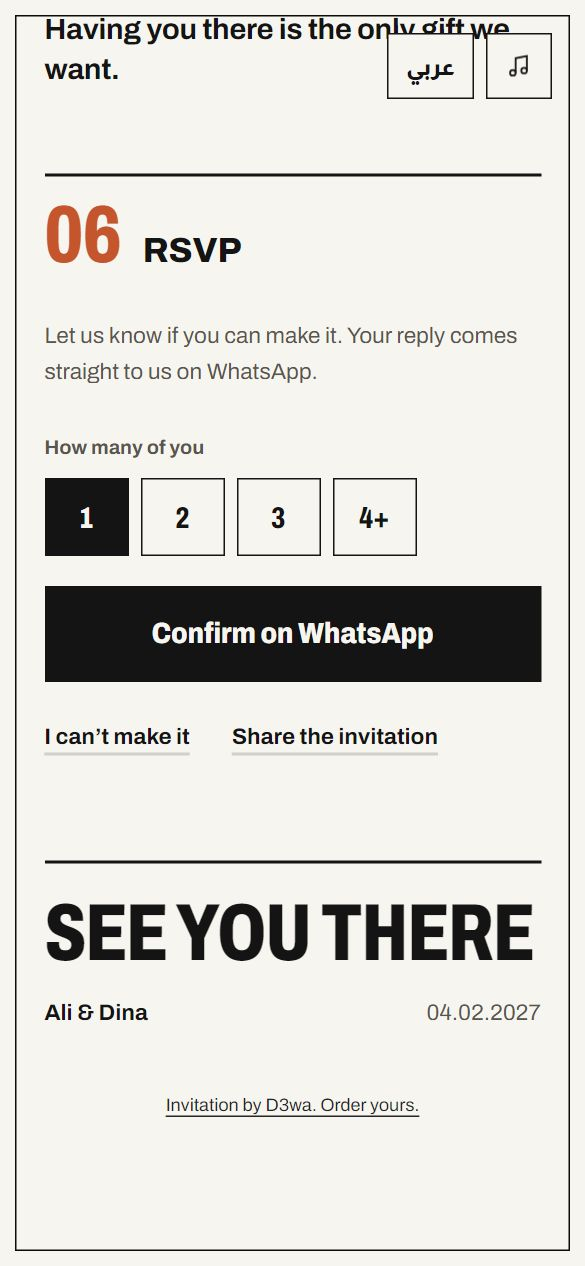
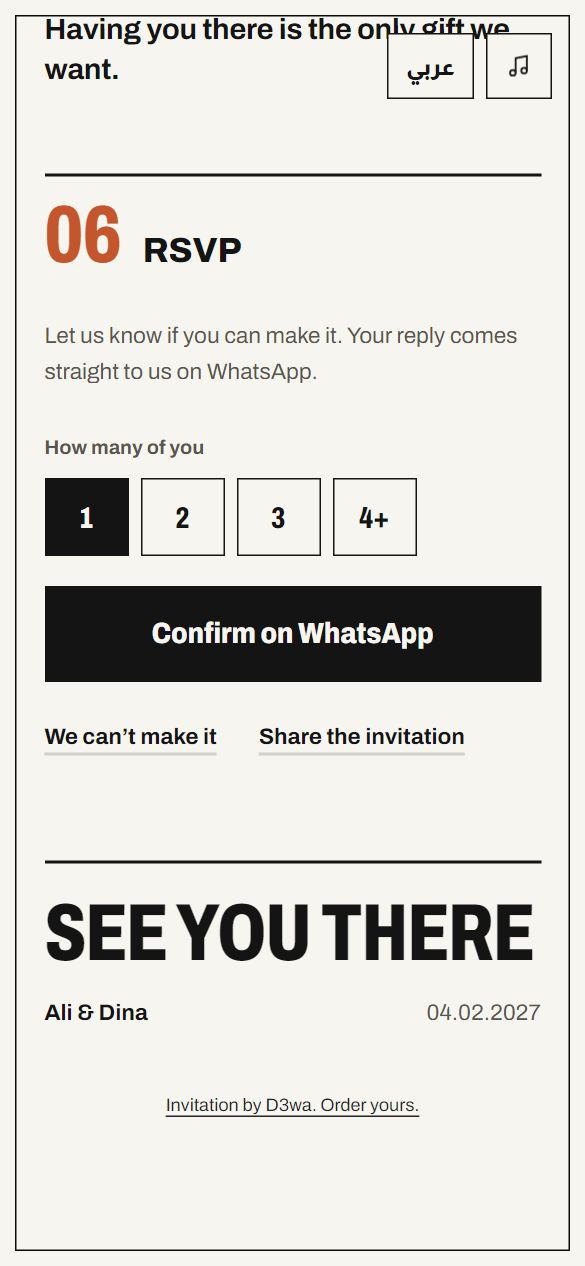
Council round 8 fixes: last singular RSVP labels, names in either script
From the eighth council review (Claude Opus, 9.4/10):
- Emerald's accept button ("أؤكد الحضور") and Modern's English decline
  ("I can't make it", written as an entity the earlier sweep missed)
  still spoke as one person next to "we" messages.
- Gold, Navy, Rose and Rustic accept messages said "I" before "Number
  of guests"; they now say "we" in both languages, which also removes
  Gold's and Navy's "يسعدني أأكد" typo. A sweep of all eleven non-Henna
  designs (plain, curly and entity apostrophes) finds no singular RSVP
  wording left.
- Checkout accepts names in either script: a buyer with only Latin
  names is no longer stuck at step 2; the Arabic field falls back to
  them for the preview, the order message and the Worker.

Changed region(s): [[0.4, 0.5545, 0.8, 0.6161], [0.0615, 0.5545, 0.3692, 0.6161]]

diff --git a/order.html b/order.html
@@ -85,8 +85,8 @@
           </div>
           <div class="field">
             <label for="n_ar"><span class="t-ar">الأسامي بالعربي</span><span class="t-en">Names in Arabic</span></label>
-            <input id="n_ar" autocomplete="off" maxlength="120" placeholder="يوسف ومريم" required>
-            <span class="err" id="n_arErr"><span class="t-ar">اكتبوا الأسامي بالعربي.</span><span class="t-en">Add the names in Arabic.</span></span>
+            <input id="n_ar" autocomplete="off" maxlength="120" placeholder="يوسف ومريم">
+            <span class="err" id="n_arErr"><span class="t-ar">اكتبوا الأسامي، بالعربي أو بالإنجليزي.</span><span class="t-en">Add the names, in Arabic or English.</span></span>
           </div>
           <div class="field">
             <label for="n_en"><span class="t-ar">الأسامي بالإنجليزي</span><span class="t-en">Names in English</span> <span class="opt-tag"><span class="t-ar">(اختياري)</span><span class="t-en">(optional)</span></span></label>
@@ -410,7 +410,7 @@ document.addEventListener("DOMContentLoaded", function () {
     var v = function (k) { return el(k).value.trim(); };
     /* the preview must only ever show this couple's details, never the design's sample text */
     var vAr = v("v_ar") || v("v_en") || "المكان هيتحدد قريب", vEn = v("v_en") || v("v_ar") || "Venue to be announced";
-    var put = { n_ar: v("n_ar"), n_en: v("n_en") || v("n_ar"), d: v("d"), t: v("t"), v_ar: vAr, v_en: vEn, map: v("map") };
+    var put = { n_ar: v("n_ar") || v("n_en"), n_en: v("n_en") || v("n_ar"), d: v("d"), t: v("t"), v_ar: vAr, v_en: vEn, map: v("map") };
     Object.keys(put).forEach(function (k) { if (put[k]) u.searchParams.set(k, put[k]); });
     if (state.pkg === "royale") u.searchParams.set("credit", "0");
     if (state.pkg !== "classic" && el("q").value.trim()) u.searchParams.set("q", el("q").value.trim());
@@ -442,7 +442,7 @@ document.addEventListener("DOMContentLoaded", function () {
   function validStep(n) {
     var ok = true;
     if (n === 2) {
-      ok = mark("n_ar", !el("n_ar").value.trim()) &
+      ok = mark("n_ar", !el("n_ar").value.trim() && !el("n_en").value.trim()) &
         mark("d", !/^\d{4}-\d{2}-\d{2}$/.test(el("d").value) || el("d").value < el("d").min) &
         mark("t", !/^\d{2}:\d{2}$/.test(el("t").value)) &
         mark("map", !!el("map").value.trim() && !/^https:\/\//.test(el("map").value.trim()));
@@ -488,7 +488,7 @@ document.addEventListener("DOMContentLoaded", function () {
       [en() ? "Design" : "التصميم", L(t) + " (" + t.code + ")"],
       [en() ? "Package" : "الباقة", L(PKG[state.pkg])],
       [en() ? "Occasion" : "المناسبة", occLabel()],
-      [en() ? "Names" : "الأسامي", el("n_ar").value + (el("n_en").value ? " / " + el("n_en").value : "")],
+      [en() ? "Names" : "الأسامي", [el("n_ar").value.trim(), el("n_en").value.trim()].filter(Boolean).join(" / ")],
       [en() ? "Date" : "التاريخ", niceDate(!en()) + (niceTime(!en()) ? (en() ? ", " : "، ") + niceTime(!en()) : "")],
       [en() ? "Venue" : "المكان", (en() ? el("v_en").value || el("v_ar").value : el("v_ar").value || el("v_en").value) || (en() ? "To confirm later" : "هنأكده بعدين")],
       [en() ? "RSVPs go to" : "التأكيدات على", el("wa").value, 1],
@@ -506,7 +506,7 @@ document.addEventListener("DOMContentLoaded", function () {
       "التصميم Design: " + t.ar + " / " + t.en + " (" + t.code + ")",
       "الباقة Package: " + p.ar + " / " + p.en + " · " + total() + " EGP" + (state.rush ? " (rush)" : ""),
       "المناسبة Occasion: " + (o ? o.getAttribute("data-ar") + " / " + o.getAttribute("data-en") : ""),
-      "الأسامي Names: " + el("n_ar").value.trim() + (el("n_en").value.trim() ? " / " + el("n_en").value.trim() : ""),
+      "الأسامي Names: " + [el("n_ar").value.trim(), el("n_en").value.trim()].filter(Boolean).join(" / "),
       "التاريخ Date: " + niceDate(true) + "، " + niceTime(true) + " / " + niceDate(false) + ", " + niceTime(false) + " (" + el("d").value + " " + el("t").value + ")"
     ];
     if (el("v_ar").value.trim() || el("v_en").value.trim()) L2.push("المكان Venue: " + [el("v_ar").value.trim(), el("v_en").value.trim()].filter(Boolean).join(" / "));
@@ -554,7 +554,7 @@ document.addEventListener("DOMContentLoaded", function () {
   function payload() {
     return {
       template: state.tpl, package: state.pkg, occasion: el("occ").value,
-      n_ar: el("n_ar").value.trim(), n_en: el("n_en").value.trim(),
+      n_ar: el("n_ar").value.trim() || el("n_en").value.trim(), n_en: el("n_en").value.trim(),
       event_date: el("d").value, event_time: el("t").value,
       v_ar: el("v_ar").value.trim(), v_en: el("v_en").value.trim(),
       map_url: el("map").value.trim(), quote: state.pkg !== "classic" ? el("q").value.trim() : "",

diff --git a/demos/rose.html b/demos/rose.html
@@ -938,8 +938,8 @@ html.ar .intro-hint{font-weight:600}
       ? "أنتم معزومين على خطوبة " + namesAr + "، يوم " + dateFullAr + " الساعة " + timeAr + "، في " + venueMsgAr + ". افتحوا الدعوة من هنا: " + url
       : "You're invited to the engagement of " + namesEn + " on " + dateFullEn + " at " + timeEn + ", " + venueMsgEn + ". Open the invitation: " + url;
     var rsvp = ar
-      ? "أهلاً! يسعدني تأكيد حضوري خطوبة " + namesAr + "، يوم " + dateFullAr + " الساعة " + timeAr + "، في " + venueMsgAr + ". عدد الحضور: " + ar9(guestCount)
-      : "Hello! I'd love to confirm I'm coming to the engagement of " + namesEn + " on " + dateFullEn + " at " + timeEn + ", " + venueMsgEn + ". Number of guests: " + guestCount;
+      ? "أهلاً! يسعدنا تأكيد حضورنا خطوبة " + namesAr + "، يوم " + dateFullAr + " الساعة " + timeAr + "، في " + venueMsgAr + ". عدد الحضور: " + ar9(guestCount)
+      : "Hello! We'd love to confirm we're coming to the engagement of " + namesEn + " on " + dateFullEn + " at " + timeEn + ", " + venueMsgEn + ". Number of guests: " + guestCount;
     var plain = function (t) { return encodeURIComponent(t.replace(/\u00a0/g, " ")); };
     byId("waBtn").href = "https://wa.me/?text=" + plain(share);
     byId("rsvpBtn").href = "https://wa.me/" + waNum + "?text=" + plain(rsvp);

diff --git a/demos/navy.html b/demos/navy.html
@@ -1199,8 +1199,8 @@ html.no-scroll,html.no-scroll body{overflow:hidden}
     var url = "https://khalidsharafel-din.github.io/d3wa/demos/navy.html";
     if (location.protocol !== "file:") url = location.href.split("#")[0];
     var rsvp = isAr
-      ? "مساء الخير! يسعدني أأكد حضوري حفل زفاف " + namesAr + " يوم " + dateFullAr + " الساعة " + timeAr + " في " + venueMsgAr + ". عدد الحضور: " + GUEST_AR[guestCount]
-      : "Hello! I'd like to confirm my attendance at the wedding of " + namesEn + " on " + dateFullEn + " at " + timeEn + ", " + venueMsgEn + ". Number of guests: " + GUEST_EN[guestCount];
+      ? "مساء الخير! يسعدنا نأكد حضورنا حفل زفاف " + namesAr + " يوم " + dateFullAr + " الساعة " + timeAr + " في " + venueMsgAr + ". عدد الحضور: " + GUEST_AR[guestCount]
+      : "Hello! We'd like to confirm our attendance at the wedding of " + namesEn + " on " + dateFullEn + " at " + timeEn + ", " + venueMsgEn + ". Number of guests: " + GUEST_EN[guestCount];
     var share = isAr
       ? "دعوة لحضور حفل زفاف " + namesAr + " يوم " + dateFullAr + " الساعة " + timeAr + " في " + venueMsgAr + ". افتحوا الدعوة من هنا: " + url
       : "You're invited to the wedding of " + namesEn + " on " + dateFullEn + " at " + timeEn + ", " + venueMsgEn + ". Open the invitation: " + url;

diff --git a/demos/rustic.html b/demos/rustic.html
@@ -913,8 +913,8 @@ html.ar .intro-hint{font-size:17px;letter-spacing:0}
       ? "أنتم معزومين على فرح " + namesAr + "، يوم " + dateFullAr + " الساعة " + timeAr + "، في " + venueMsgAr + ". افتحوا الدعوة من هنا: " + url
       : "You're invited to the wedding of " + namesEn + " on " + dateFullEn + " at " + timeEn + ", " + venueMsgEn + ". Open the invitation: " + url;
     var rsvp = ar
-      ? "أهلاً! يسعدني تأكيد حضوري فرح " + namesAr + "، يوم " + dateFullAr + " الساعة " + timeAr + "، في " + venueMsgAr + ". عدد الحضور: " + ar9(guestCount)
-      : "Hello! I'd love to confirm I'm coming to the wedding of " + namesEn + " on " + dateFullEn + " at " + timeEn + ", " + venueMsgEn + ". Number of guests: " + guestCount;
+      ? "أهلاً! يسعدنا تأكيد حضورنا فرح " + namesAr + "، يوم " + dateFullAr + " الساعة " + timeAr + "، في " + venueMsgAr + ". عدد الحضور: " + ar9(guestCount)
+      : "Hello! We'd love to confirm we're coming to the wedding of " + namesEn + " on " + dateFullEn + " at " + timeEn + ", " + venueMsgEn + ". Number of guests: " + guestCount;
     var plain = function (t) { return encodeURIComponent(t.replace(/ /g, " ")); };
     byId("waBtn").href = "https://wa.me/?text=" + plain(share);
     byId("rsvpBtn").href = "https://wa.me/" + waNum + "?text=" + plain(rsvp);

diff --git a/demos/gold.html b/demos/gold.html
@@ -1055,8 +1055,8 @@ body.intro-lock{overflow:hidden}
       ? "أنتم مدعوون لحفل خطوبة " + namesAr + " يوم " + dateFullAr + " " + shareTimeAr + " في " + venueMsgAr + ". افتحوا دعوتكم من هنا: " + url
       : "You're invited to the engagement of " + namesEn + " on " + dateFullEn + " at " + timeEn + ", " + venueMsgEn + ". Open your invitation: " + url;
     var rsvp = isAr
-      ? "مرحباً! يسعدني أأكد حضوري حفل خطوبة " + namesAr + " يوم " + dateFullAr + " " + shareTimeAr + " في " + venueMsgAr + "."
-      : "Hello! I'd love to confirm my attendance at the engagement of " + namesEn + " on " + dateFullEn + " at " + timeEn + ", " + venueMsgEn + ".";
+      ? "مرحباً! يسعدنا نأكد حضورنا حفل خطوبة " + namesAr + " يوم " + dateFullAr + " " + shareTimeAr + " في " + venueMsgAr + "."
+      : "Hello! We'd love to confirm our attendance at the engagement of " + namesEn + " on " + dateFullEn + " at " + timeEn + ", " + venueMsgEn + ".";
     if (waBtn) waBtn.href = "https://wa.me/?text=" + encodeURIComponent(share);
     if (rsvpBtn) rsvpBtn.href = "https://wa.me/" + waNum + "?text=" + encodeURIComponent(rsvp);
   }

diff --git a/demos/modern.html b/demos/modern.html
@@ -560,7 +560,7 @@ html.en .mono .t-ar,html:not(.en) .mono .t-en{display:none}
         </div>
         <a class="rsvp-yes" id="rsvpYes" target="_blank" rel="noopener noreferrer" href="https://wa.me/201005509418"><span class="t-ar">أكّدوا الحضور على واتساب</span><span class="t-en">Confirm on WhatsApp</span></a>
         <div class="rsvp-more">
-          <a class="tlink" id="rsvpNo" target="_blank" rel="noopener noreferrer" href="https://wa.me/201005509418"><span class="t-ar">مش هنقدر نيجي</span><span class="t-en">I can&rsquo;t make it</span></a>
+          <a class="tlink" id="rsvpNo" target="_blank" rel="noopener noreferrer" href="https://wa.me/201005509418"><span class="t-ar">مش هنقدر نيجي</span><span class="t-en">We can&rsquo;t make it</span></a>
           <a class="tlink" id="shareBtn" target="_blank" rel="noopener noreferrer" href="https://wa.me/"><span class="t-ar">ابعتوا الدعوة لحبايبكم</span><span class="t-en">Share the invitation</span></a>
         </div>
       </div>

diff --git a/demos/emerald.html b/demos/emerald.html
@@ -854,7 +854,7 @@ html.no-scroll,html.no-scroll body{overflow:hidden}
     <div class="stack">
       <a class="btn solid" id="acceptBtn" target="_blank" rel="noopener noreferrer" href="https://wa.me/201005509418">
         <svg viewBox="0 0 24 24" fill="none" stroke="currentColor" stroke-width="1.8" aria-hidden="true"><path d="M20 6 9 17l-5-5"/></svg>
-        <span class="t-ar">أؤكد الحضور</span>
+        <span class="t-ar">نأكد حضورنا</span>
         <span class="t-en">Confirm attendance</span>
       </a>
       <a class="btn" id="declineBtn" target="_blank" rel="noopener noreferrer" href="https://wa.me/201005509418">
